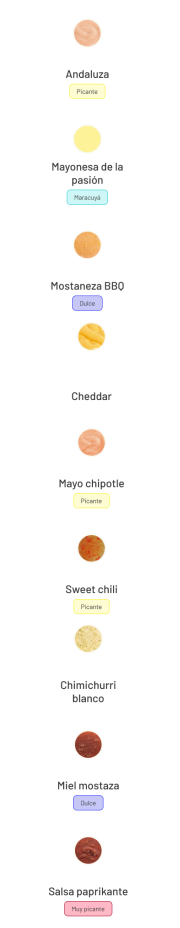
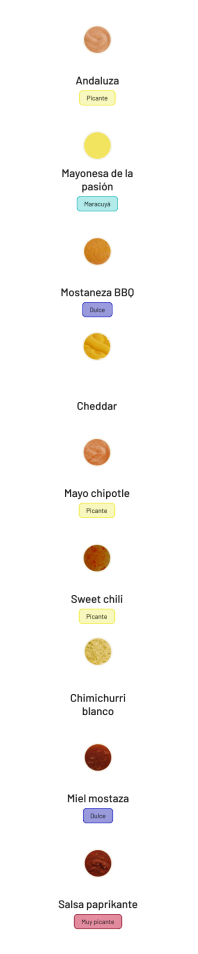
arregle imagen salsasMobile

Changed region(s): [[0.2778, 0.4062, 0.7222, 1.0], [0.2778, 0.0, 0.6944, 0.2188], [0.2778, 0.25, 0.6944, 0.375]]

diff --git a/src/components/Carousel/Carousel.css b/src/components/Carousel/Carousel.css
@@ -18,11 +18,11 @@
   display: flex;
   flex-direction: column;
   margin: 10px;
-  align-items: center;
   background-color: #fff;
   border-radius: 15px;
   box-shadow: 0px 8px 24px rgba(158, 158, 158, 0.2);
   width: 90%;
+  height: 97%;
 }
 
 .containerImg img {
